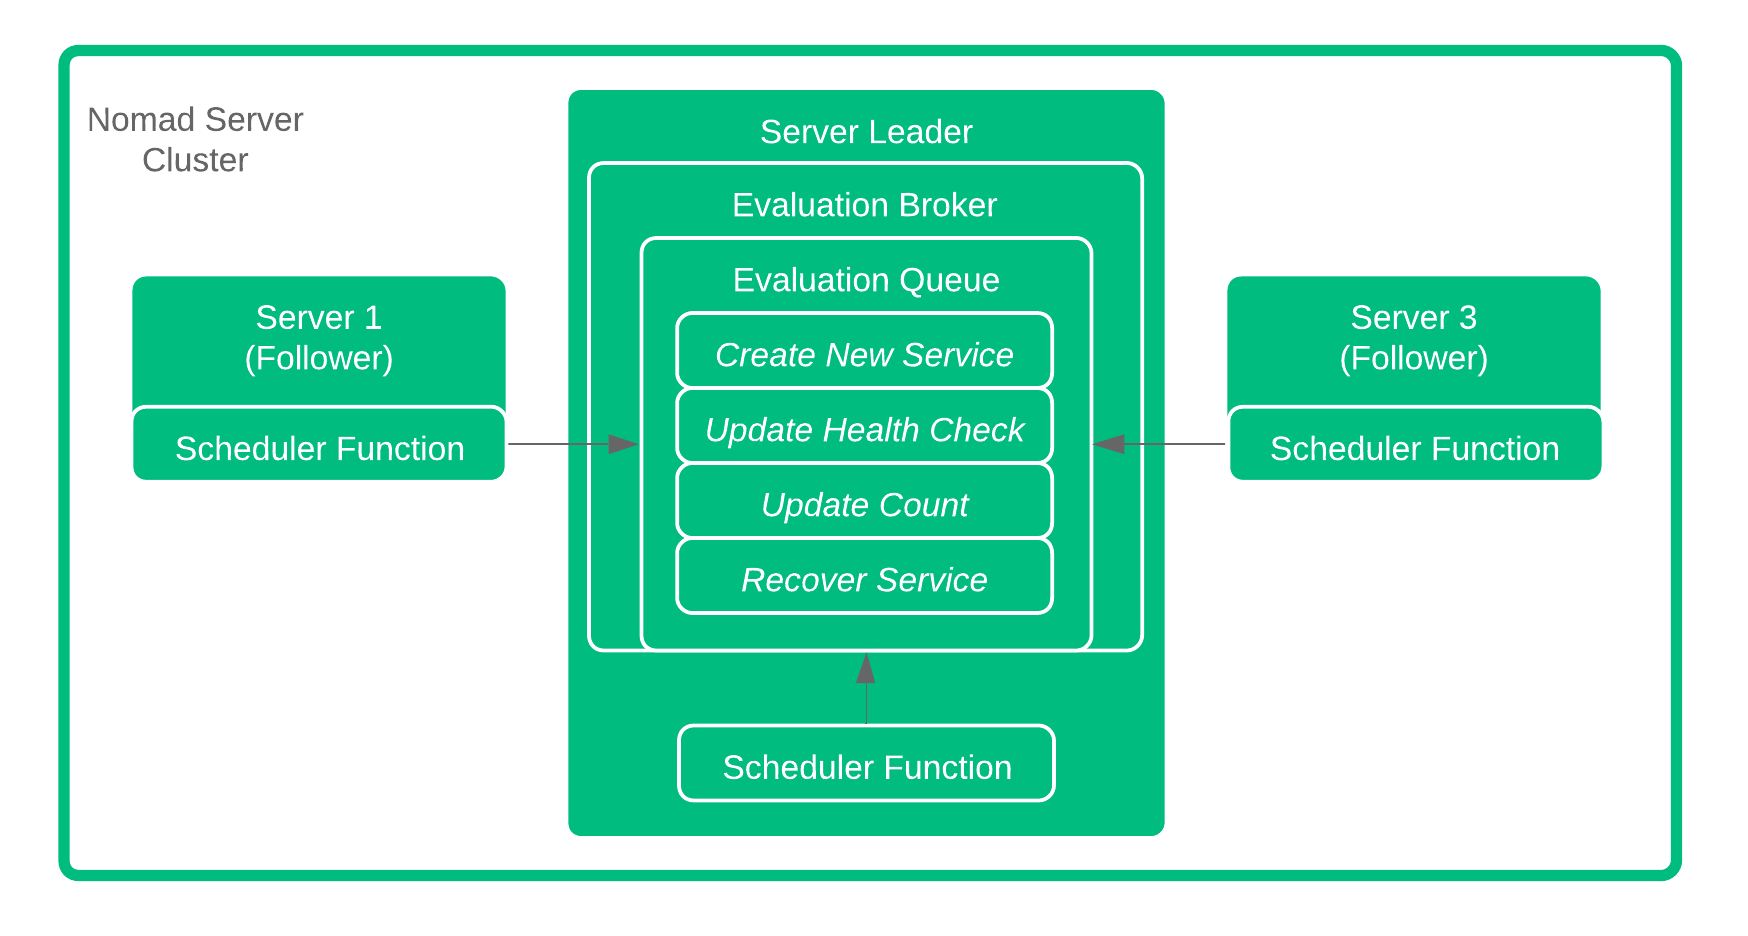
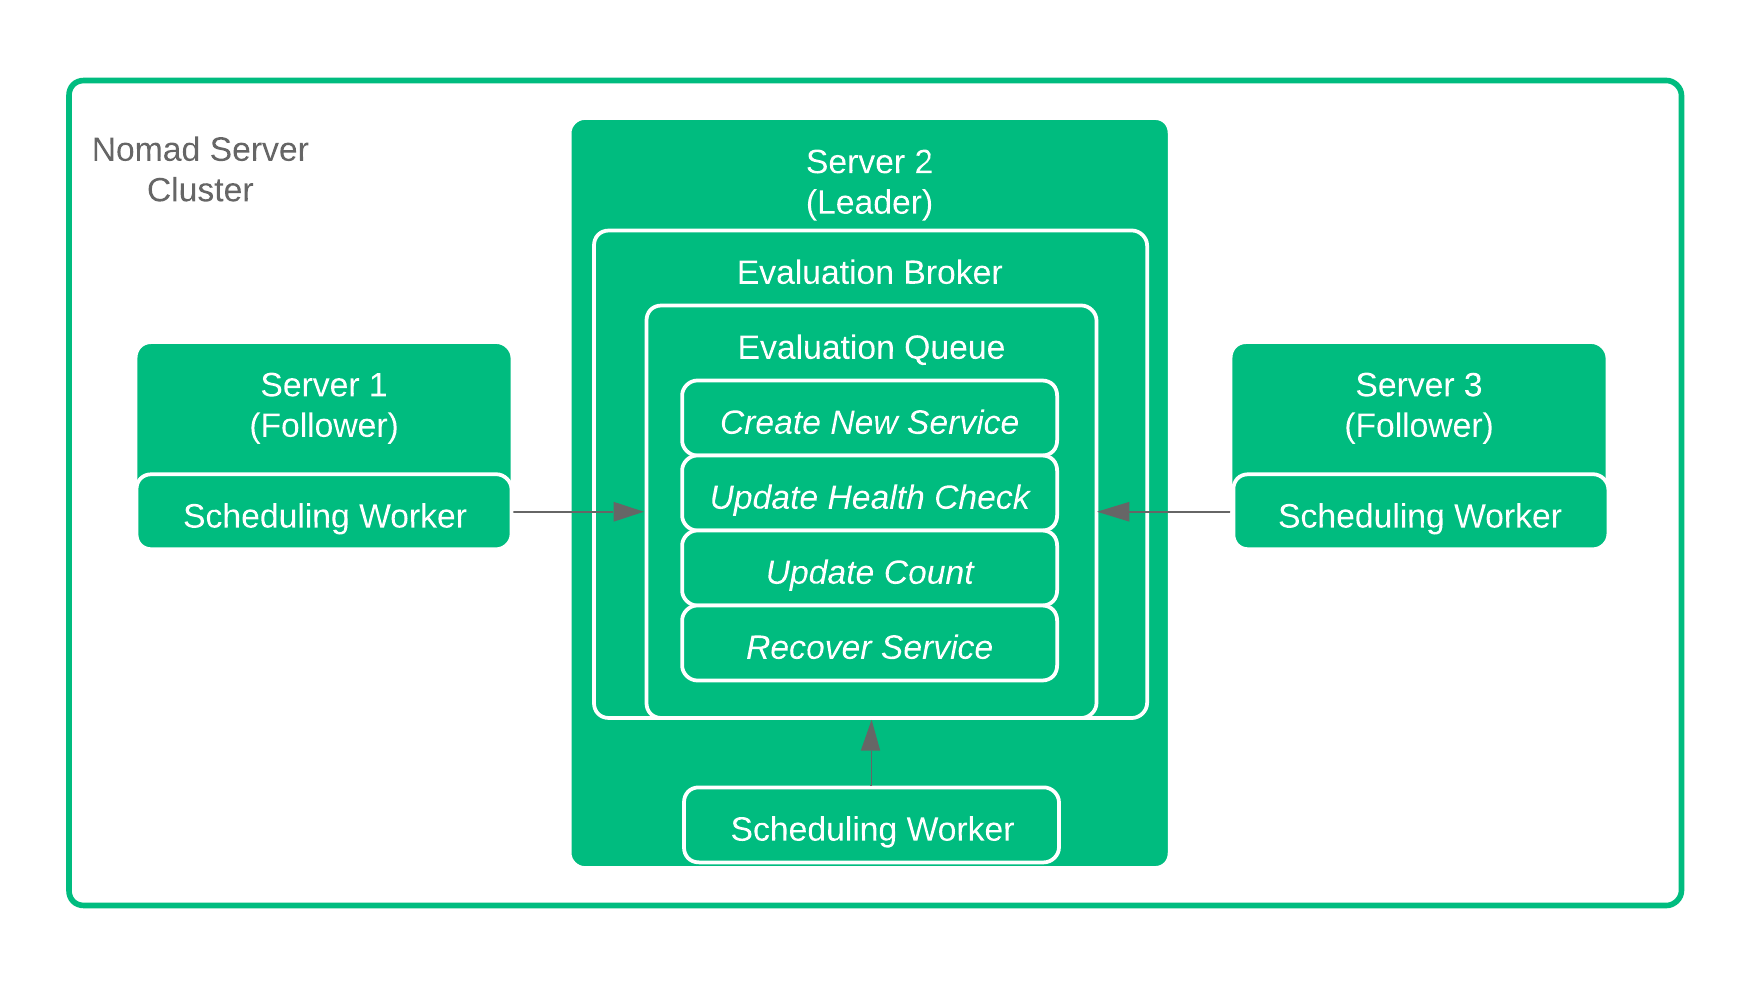
Update based on Roger's feedback

Changed region(s): [[0.0309, 0.031, 0.9886, 0.9605]]

diff --git a/Nomad/index.html b/Nomad/index.html
@@ -38,6 +38,10 @@
     float: right;
     /* padding-top: 1em;*/
     }
+    .bold {
+    font-weight: bolder;
+    /* padding-top: 1em;*/
+    }
   </style>
 
   <!--

diff --git a/Nomad/nomad_concepts_arch.md b/Nomad/nomad_concepts_arch.md
@@ -4,7 +4,7 @@ background-image: url(https://hashicorp.github.io/field-workshops-assets/assets/
 count: false
 
 # HashiCorp Nomad
-## Advanced Concepts and Architecture
+## Concepts and Architecture
 
 ![:scale 15%](https://hashicorp.github.io/field-workshops-assets/assets/logos/logo_nomad.png)
 
@@ -20,6 +20,8 @@ layout: true
 ]
 
 ---
+exclude: true
+
 name: slides-link
 # The Slide Show
 ## You can follow along on your own computer at this link:
@@ -32,6 +34,8 @@ Hidden:  Custom diagrams can be found at Lucidchart
 https://www.lucidchart.com/documents/edit/6cf954c6-16e9-4827-9d74-98417ba74444/0_0?beaconFlowId=D0003F1058D413A2
 
 ---
+exclude: true
+
 name:  Section Prerequisites
 # Prerequisites
 This deck assumes the following of the audience:
@@ -43,14 +47,13 @@ This deck assumes the following of the audience:
 This slide deck focuses on the concepts and architecture of Nomad.  Therefore the audience should have some basic understanding of the Nomad applications.
 
 ---
-name:  High level Nomad Review
-# Nomad Review
-Let's review a few high level concepts about Nomad:
+name:  What Is Nomad
+# What is Nomad
 .smaller[
-* Nomad is a flexible, lightweight, performance, easy to use orchestrator
-* Nomad is used to deploy and manage containers and legacy applications simultaneously
-* Nomad works across data centers and cloud platforms, providing universal scheduling
-* Nomad manages services, batch functions, as well as global system services
+* A flexible, lightweight, high performing, easy to use orchestrator
+* Used to deploy and manage containers and legacy applications simultaneously
+* Works across data centers and cloud platforms, providing universal scheduling
+* Manages services, batch functions, as well as global system services
 ]
 
 ???
@@ -62,25 +65,41 @@ name:  Common Nomad Terms
 Let's review some terms and definitions regarding Nomad
 
 .smaller[
-* Nomad clusters consist of nodes running the Nomad binary, both Servers and Clients
-* Servers provide the intelligence (scheduling, allocation) to the cluster
-* Clients run the Nomad agent which registers with the server and executes local tasks.
-* Jobs are submitted by users and represent the desired state of the associated workloads
-* Drivers are used by Nomad to execute tasks (i.e., Docker, QEMU, Java, etc.)
-* Tasks are the smallest unit of work executed by task drivers
+* Nomad .bold[Clusters] consist of nodes running the Nomad binary, both Servers and Clients
+* .bold[Servers] provide the intelligence (scheduling, allocation) to the cluster
+* .bold[Clients] run the Nomad agent which registers with the server and executes local tasks.
+* .bold[Jobs] are submitted by users and represent the desired state of the associated workloads
+* .bold[Drivers] are used by Nomad to execute tasks (i.e., Docker, Exec, Java, etc.)
+* .bold[Tasks] are the smallest unit of work executed by task drivers
 ]
 
 ???
-Nomad operates as clusters of nodes, with anywhere from 3-5 server nodes, and an unconstrained number of client nodes.  All nodes run the same Nomad binary.  The Nomad server nodes provide the brains and intelligence to the cluster, performing all scheduling and allocations, while the clients execute the tasks as directed by the server cluster. Jobs are used to describe the desired state of the workloads.  This is what the servers and clients work towards.  Nomad also offers several drivers to help execute the defined tasks, getting the defined workloads into the desired state.
+Nomad operates as clusters of nodes, with anywhere from 3-5 server nodes, and an unconstrained number of client nodes.  All nodes run the same Nomad binary.  The Nomad server nodes provide the brains and intelligence to the cluster, performing all scheduling and allocations, while the clients execute the tasks as directed by the server cluster. Jobs are used to describe the desired state of the workloads.  This is what the servers and clients work towards.  Nomad also offers drivers for docker containers, java apps, and arbitrary executables to help execute the defined tasks, getting the defined workloads into the desired state.
+
+---
+name:  More Nomad Terms
+# Nomad Terms (part 2)
+
+.smaller[
+* .bold[Task Groups] are groups of tasks (shocking) that must run together (can not be split across clients)
+* .bold[Allocations] are created by Nomad servers to map tasks, task groups, and jobs to client machines
+* Nomad performs .bold[Evaluations] whenever jobs or client states change to determine if allocations must be adjusted
+* Nomad maximizes resource utilization with a highly efficient .bold[Bin Packing] algorithm
+* .bold[Data Centers] are physical or logical groups of compute resources typically defined by cloud service providers
+* .bold[Regions] are Nomad logical constructs that may consist of multiple data centers enabling federation across client pools.
+]
+
+???
+As we discuss Nomad, there are other concepts and terms to be aware of.  Task Groups are groups of tasks, as crazy as that may sound.  What is important here is that the task groups must be run together, often colocated on the same client, which may be required for various architectural reasons.  Nomad's main job is to perform Allocations, mapping tasks, task groups, and jobs to various client resources.  These allocations are adjusted based on Nomad Evaluations that are performed whenever balance within the system is disrupted, either through adjustments to the job, and/or changes to the client availability. As evaluations and allocations are performed, Nomad uses a highly efficient bin packing algorithm to ensure that resource utilization is maximized across the client cluster.  That cluster can consist of client nodes residing within a traditional data center, or across multiple data centers defined as a Nomad region.  Utilizing regions enables service federation across multiple cloud providers or geographic areas without replicating data across all regions.
 
 ---
 Name:  Nomad Layout and Comms
 # Nomad Communications
 .left-side[
 * 3-5 Server Nodes
-* Server Leaders Replicate to Followers
-* Server Followers Send Request and Allocations to Server
-* Clients Communicate with Servers over RPC
+* The Leader Replicates to Followers
+* Followers forward Allocations, Client Data, and Requests to Leader
+* Clients Communicate with all Servers over RPC
 ]
 .right-side[
     ![:scale 60%](https://www.nomadproject.io/assets/images/nomad-architecture-region-a5b20915.png)
@@ -90,32 +109,49 @@ Name:  Nomad Layout and Comms
 Let's jump right in with the communications among the Nomad nodes.  Within the Server Cluster, we have a Leader, and we have Followers.  The Leaders are elected via quorum (which is why it is important to have 3-5 nodes) using the Consensus, based on RAFT.  The Leader of the servers makes all allocation decisions, and distributes to Followers.  Clients pull allocation and task assignments via RPC from each Server.
 
 ---
-Name:  Nomad Scheduler
-# Nomad Scheduler Initiation
+Name:  Nomad Evaluation
+# Nomad Scheduler Initiation - Evaluations
 .left-side[
-An Evaluation is "Kicked Off"
+An Evaluation is "Kicked Off" whenever ANY of the following occur
 .smaller[
-* New Job
-* Job Update
+* New Job Created
+* Job Updated or Modified
 * Job or Node Failure
 ]
-An Evaluation can be sent to any of the Server nodes, but eventually they all make it to the Evaluation broker that resides on the leader.  Until queued, the evaluation is in 'pending' state
 ]
 .right-side[
-    ![:scale 60%](images/Nomad_Evalation_Kickoff.png)
+    ![:scale 50%](images/Nomad_eval_alloc.png)
 ]
 
 ???
-Everything starts with something, regardless of your technical, moral, or spiritual beleifs.  With Nomad, we deal witih Evaluations to determine if any work is necessary.  What kicks off that evaluation can be a new job definition, and updated job definition, or some change to the infrastructure.
+Everything starts with something, regardless of your technical, moral, or spiritual beleifs.  With Nomad, we deal witih Evaluations to determine if any work is necessary.  What kicks off that evaluation can be a new job definition, and updated job definition, or some change to the infrastructure.  If necessary, a new Allocation maps tasks or task groups within jobs, to the available nodes
+
+---
+Name:  Nomad Scheduler
+# Nomad Scheduler Initiation
+.left-side[
+
+.smaller[
+* Regardless of how the Evalution is initiated, the evaluation can be sent to any of the server nodes.
+* All Evaluations are forwarded to the Evaluation Broker on the Leader
+* Evaluation remains in 'pending' state until the Leader queues the process
+]
+]
+.right-side[
+    ![:scale 60%](images/Nomad_Evaluation_Kickoff.png)
+]
+
+???
+A new job, a modified or updated job, or any change in the system (job or node failure) will cause an evaluation to kick off.  Regardless of how that's done, any of the server nodes can receive the evaluation request.  All evaluations are forwarded to a dedicated process on the Leader, called the evaluation broker.  Until the Evaluation broker can determine if an allocation is necessary, the evaluation remains in 'pending' state.
 
 
 ---
 name:  Nomad Evaluation
 # Nomad Evaluation
 .left-side[
-Once the Evaluation Broker recieves the evaluations, the Broker queues the changes in order based on prirority.
+Once the Evaluation Broker recieves the Evaluations, the Broker queues the changes in order based on priority.
 
-Scheduler on Follower Nodes pick off the queue and start planning!
+Scheduler on Follower Nodes pick the Evaluations off the queue and start planning!
 ]
 .right-side[
     ![:scale 60%](images/Evaluation_Queue.png)
@@ -125,10 +161,10 @@ Scheduler on Follower Nodes pick off the queue and start planning!
 We're talking about Evaluation, not Evolution. Here the evaluation Broker, residing on the leader node, manages the queue of pending evaluations.  Priority is determined based on Job definition, and the Broker ensures that somebody picks up the evaluation for processing.  Once the evaluation is picked up by a Scheduler, the planning begins!
 
 ---
-Name:  Scheduler Function
+Name:  Scheduling Workers
 # Scheduler Operations
 
-All Servers run Scheduling Functions
+All Servers run Scheduling Workers
 * One Scheduler per CPU core by default
 * Four Default Schedulers Available
     * Service Scheduler optimized for long-lived services
@@ -161,8 +197,8 @@ Back to the leader now...
 .smaller.left-side[
 5.  Evaluate all submitted allocation plans
 6.  Accept, reject, or partially reject the plan
-7.  Return response to Scheduler for implementation, reschedule, or terminate
-8.  Scheduler Updates status of evaluation and confirms with Evaluation Broker
+7.  Return response to Scheduler for implementation, rescheduling, or termination
+8.  Scheduler updates status of evaluation and confirms with Evaluation Broker
 9.  Clients pick up allocation changes and act!
 ]
 .right-side[
@@ -182,23 +218,89 @@ Name:  End to End Flow
 ---
 Name:  A Focus on Priority
 # Let's Talk Priority
-Priority Processed During Evaluation and Planning
-
+Every Scheduler, Planner, Program Managear, deals with struggling priorities.
+.bold[Nomad] is no different - Priority is processed during evaluation and planning
+.smaller[
+* Every job has an associated Priority
+* Priority ranges from 1-100 - higher number = higher priority
+]
 What if higher priority jobs are scheduled?
 
-.larger[PREEMPTION]
+.larger.bold[PREEMPTION]
 
 ???
-We all struggle with priority.  How does Nomad deal with the inevitable situation where a higher priority job is scheduled and resources are limited?  Preemption!
+We all struggle with priority.  Nomad supports priority configuration with every Job, from 1 to 100.  The higher the number, the higher the priority.  How does Nomad deal with the inevitable situation where a higher priority job is scheduled and resources are limited?  Preemption!
+
 ---
 Name:  Preemption
 # Preemption
 
-Preemption allows Nomad to ensure higher priority (based on Job definition) are scheduled first.
+Preemption allows Nomad to adjust resource allocations based on Job priority.
 
+.left-side[
 .smaller[
-* Occurs only when resources are constrained
-* Only jobs with a priority delta > 10 evaluated
-* Lowest priority jobs evicted first
+Without Preemption
+* Jobs and tasks are allocated first come - first served
+* Pending Evaluations not allocated until resources available
+]
+]
+
+.right-side[
+.smaller[
+With Preemption
+* Evaluations performed regardless of resource availability
+* Lowest priority jobs evicted if necessary
 * Output of 'Plan' identifies any preemptive actions
 ]
+]
+
+???
+Without any sort of preemption, jobs are evaluated and allocated as they are delivered to the evaluation broker.  If resources aren't avialable, any evaluations will be stuck in pending state until resources become available.  With preemption, Nomad continues to perform the evaluations and will evict lowest priority jobs if necessary.  Every 'plan' that is executed highlights any preemption actions necessary.
+
+---
+Name:  How Preemption Works
+# Preemption Details
+
+Need to add the System Alerting allocation, but there's no room!
+
+.left-side[
+  ![:scale 60%](images/SystemAlerting.png)
+]
+.right-side[
+  ![:scale 100%](images/FullCluster.png)
+]
+
+???
+Let's run through a quick example of how preemption works.  Here we have a Nomad cluster with a few allocations in an analytics solution.  Allocations are all happy, and now we have a new job added to the system for System Alerting.  We have enough CPU, and plenty of Hard Drive, but we are at the memory limit.  No room at the inn for our System Alerting process.  Without Preemption, that's where we would stop. But we have preemption, so we'll continue
+
+---
+Name:  How Preemption Works 2
+# Preemption Details 2
+
+One of the Business Reporting allocations needs to go!
+.left-side[
+  ![:scale 100%](images/EvictBusinessAlert1.png)
+]
+.right-side[
+  ![:scale 100%](images/AddSystemAlert1.png)
+]
+
+???
+With Preemption, Nomad realizes that there are lower priority allocations that can be evicted.  So if we are adding one System Alerting job, we evict one Business Reporting Job.  The Business Reporting job has the lowest priority, so it gets evicted first.  But what happens if we have to add two more System Alerting allocations?
+
+---
+Name:  How Preemption Works 3
+# Preemption Details 3
+
+More System Alerting means more eviction. Log Collection isn't a candidate - priority delta < 10
+
+.left-side[
+  ![:scale 100%](images/EvictBusinessAlert2.png)
+]
+.right-side[
+  ![:scale 100%](images/AddSystemAlert2.png)
+]
+
+
+???
+If we add two more Sytem Alerting allocations, we need to bump a Batch Analytics Allocation as well. Evicting the Log Collection allocation would be sufficient, however, the Batch Analytics Allocation has a lower priority.  Additionally, as the priority difference between System Alerting and Log Collection is less than 10, the Log Collection allocation isn't a candidate for preemption with respect to System Alerting.
